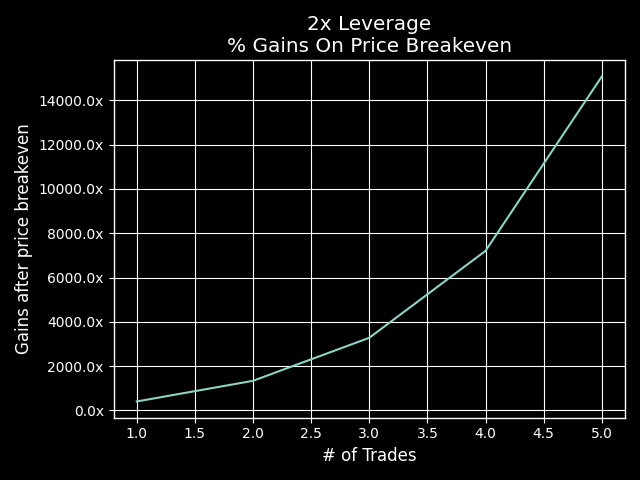
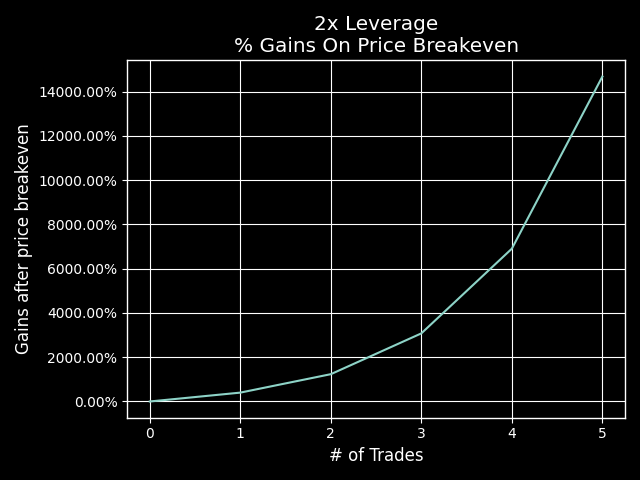
oops

diff --git a/strategy.py b/strategy.py
@@ -105,8 +105,8 @@ def profit_at_breakeven():
 		ax.set_xlabel("# of Trades")
 		ax.set_ylabel("Gains after price breakeven")
 		plt.tight_layout()
-		# plt.savefig(f"imgs/{og_lev}_profit_breakeven.png")
-		plt.show()
+		plt.savefig(f"imgs/{og_lev}_profit_breakeven.png")
+		# plt.show()
 
 
 
